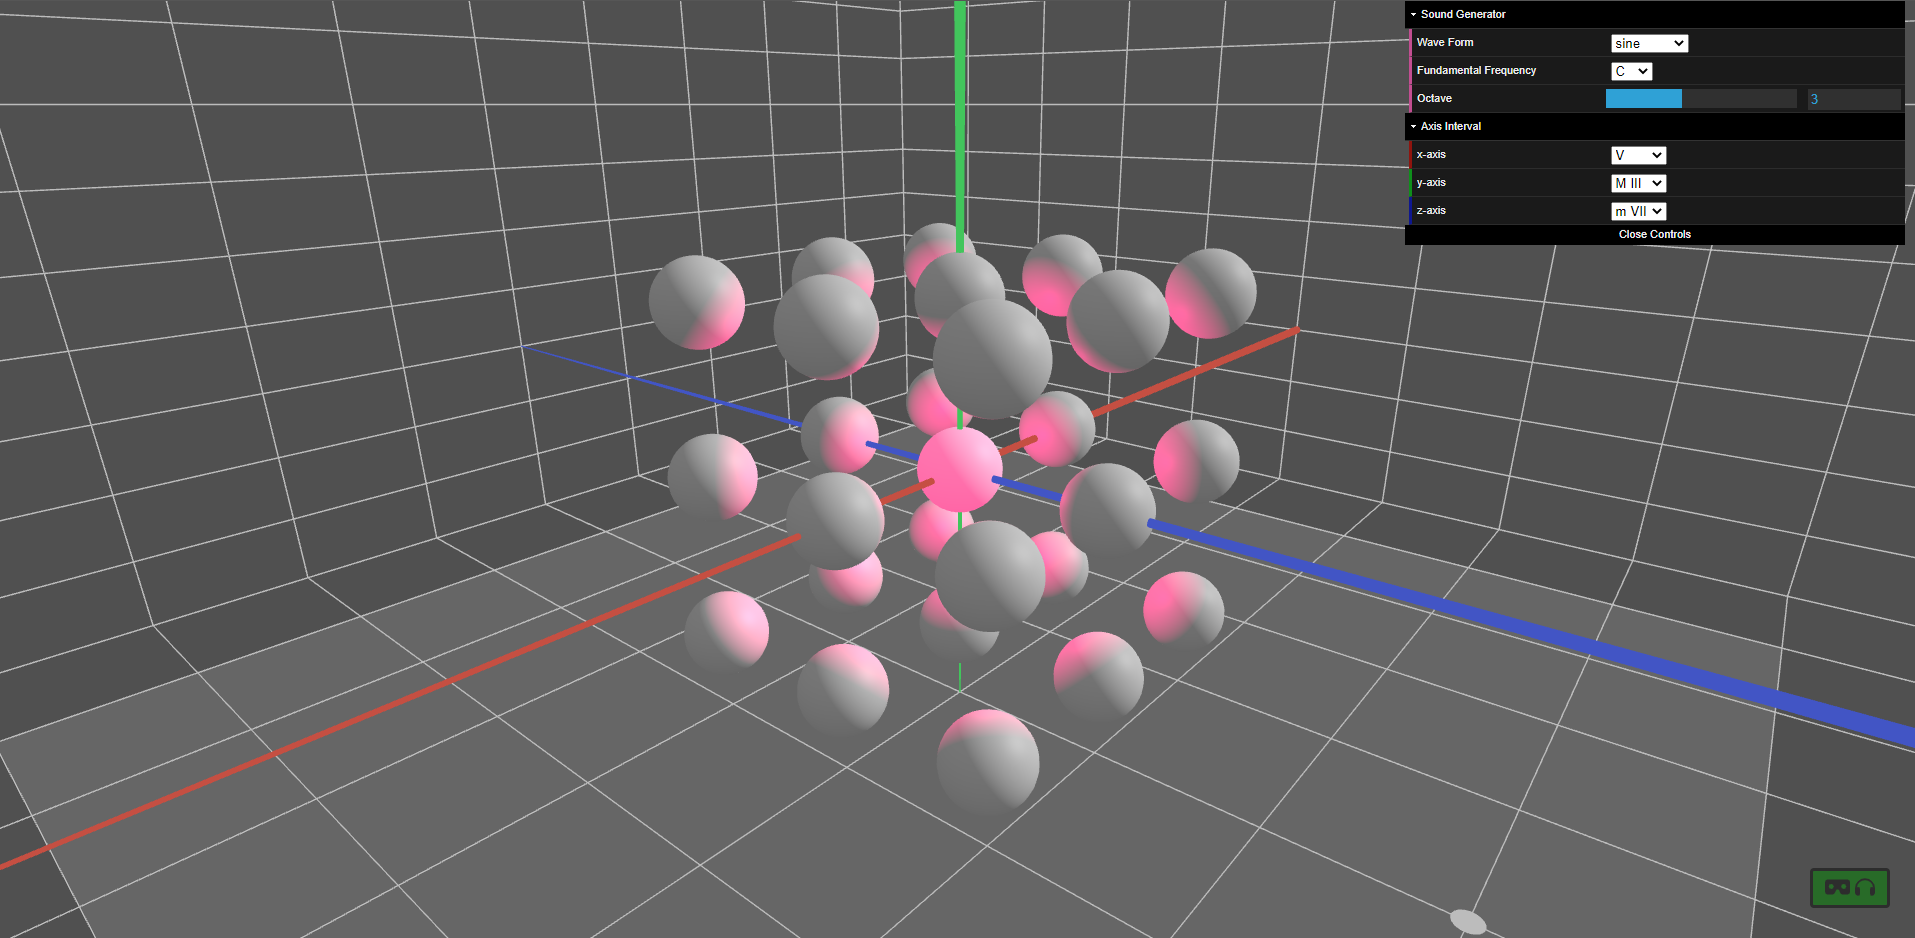
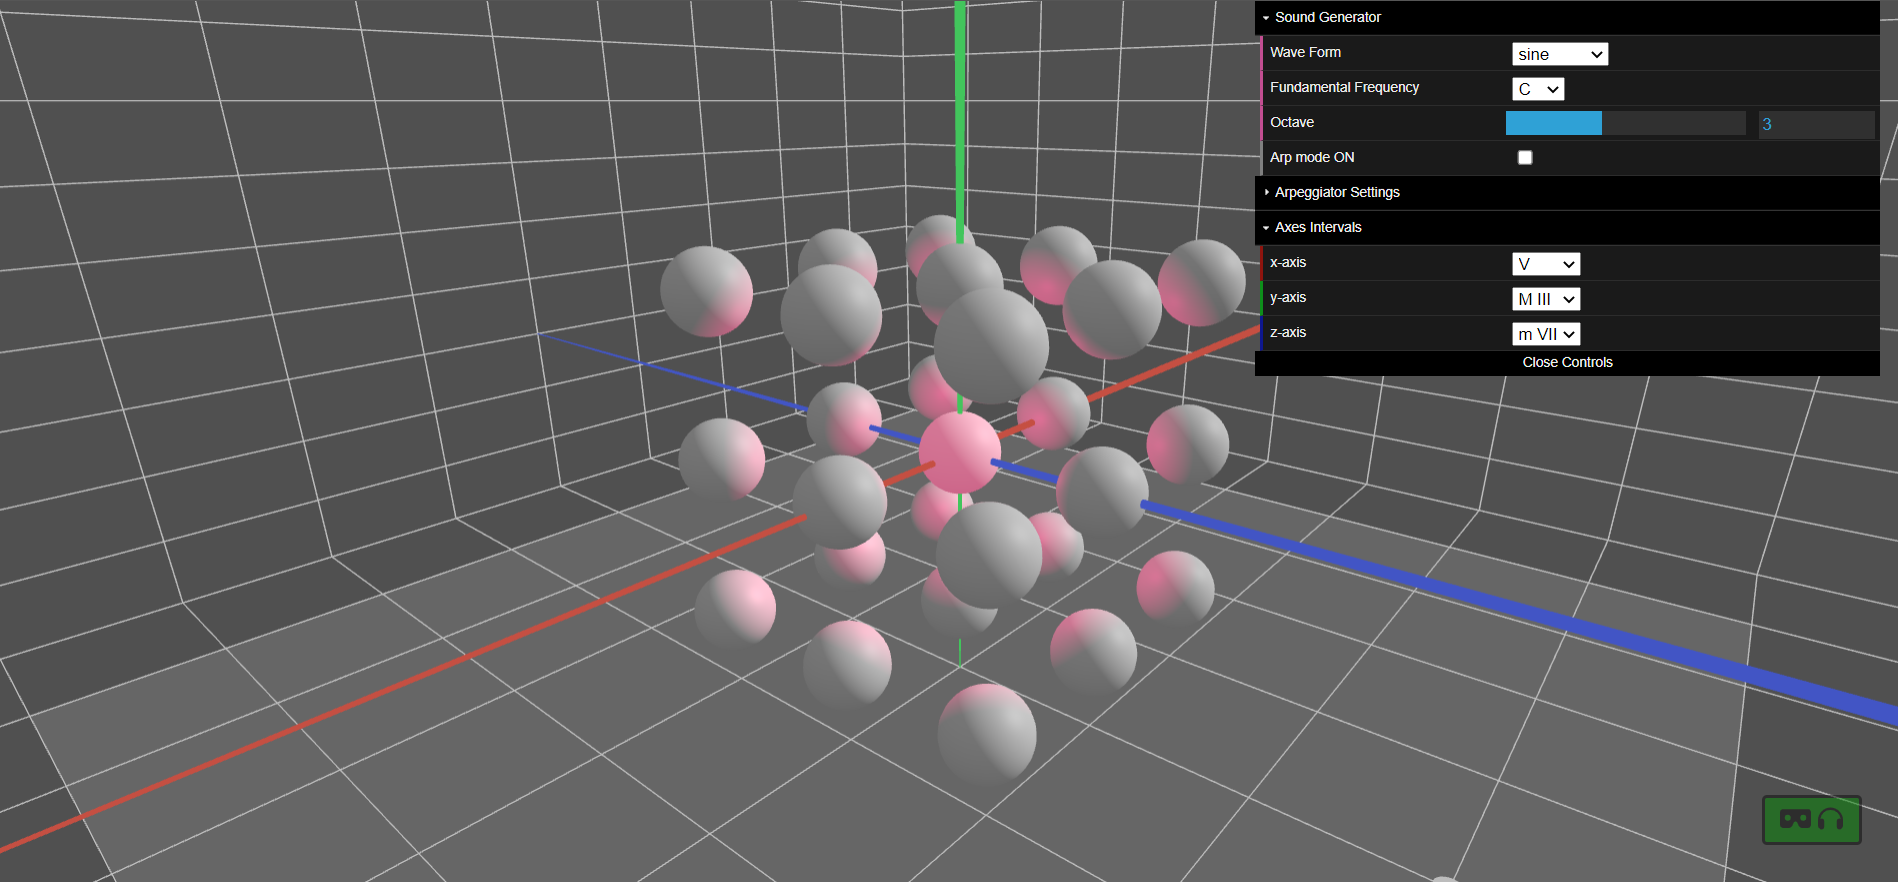
arp default settings and documentation udated

diff --git a/scripts/vr-mony.js b/scripts/vr-mony.js
@@ -43,7 +43,7 @@ let intonation = new Array(SpheresPerEdge);
 let mixer;
 let ball = new Array(SpheresPerEdge);;
 let audioCtx;
-let ArpOn, switch_arp = 0, bpm=600, steps=4, pattern='Ascending', arp_f0;
+let ArpOn, switch_arp = 0, bpm=300, steps=5, pattern='Ascending', arp_f0;
 let notes = [arp_f0, arp_f0*Math.pow(2, 4/12), arp_f0*Math.pow(2, 7/12), arp_f0*Math.pow(2, 10/12), arp_f0*Math.pow(2, 13/12), arp_f0*Math.pow(2, 16/12)];
 let f0 = 65.406; //Lattice Fundamental Frequency
 let Oct = 3;
@@ -469,8 +469,8 @@ function initGUI(){
 		'Octave': 3,
 		'Arp mode ON': false,
 		'Pattern': 'Ascending',
-		'BPM': 600,
-		'Steps': 4,
+		'BPM': 300,
+		'Steps': 5,
 		'x-axis': 'V' ,
 		'y-axis': 'M III',
 		'z-axis': 'm VII',

diff --git a/README.md b/README.md
@@ -107,7 +107,7 @@ Each line is thicker on the side where the interval goes toward higher frequenci
 <br><br>
 
 ### **User Interface**
-A simple user interface allows the user to control the sound generator and the interval on each axis.
+A simple user interface allows the user to control the sound generator, the intervals on each axis and the arpeggiator mode settings.
 <p align="center"> <img src="./images/doc/gui.png" width="50%"></p>
 
 - **WAVE FORM:** allows to set the wave form of the generated sounds
@@ -154,7 +154,7 @@ A simple user interface allows the user to control the sound generator and the i
 The "Arp mode" switch activates the arpeggiator and opens the menu folder containing the related settings.
 <p align="center"> <img src="./images/doc/gui_arp.png" width="50%"></p>
 
-When the arpeggiator is ON, the mouse click on each sphere starts a looping arpeggio using the note of the clicked sphere as the tonic and it is possible to customize on the go the sequence of notes played and its speed with the following options:
+When the arpeggiator is ON, the mouse click on each sphere starts a looping arpeggio using the note of the clicked sphere as the tonic and it is possible to customize on the go not only the sound generator and the axes intervals, but also the sequence of notes played and its speed with the following options:
 <br><br>
 
 - **PATTERN:** selects the way the arpeggiator picks the notes into an array
@@ -166,7 +166,7 @@ When the arpeggiator is ON, the mouse click on each sphere starts a looping arpe
 </p>
 <br>
 
-- **BPM:** allows to set the BPM of the arpeggiator from 60 to 400 bpm.
+- **BPM:** allows to set the BPM of the arpeggiator from 60 to 1000 bpm.
 <br>
 
 - **STEPS:** allows to set the number of steps of the arpeggio from 2 to 6.
